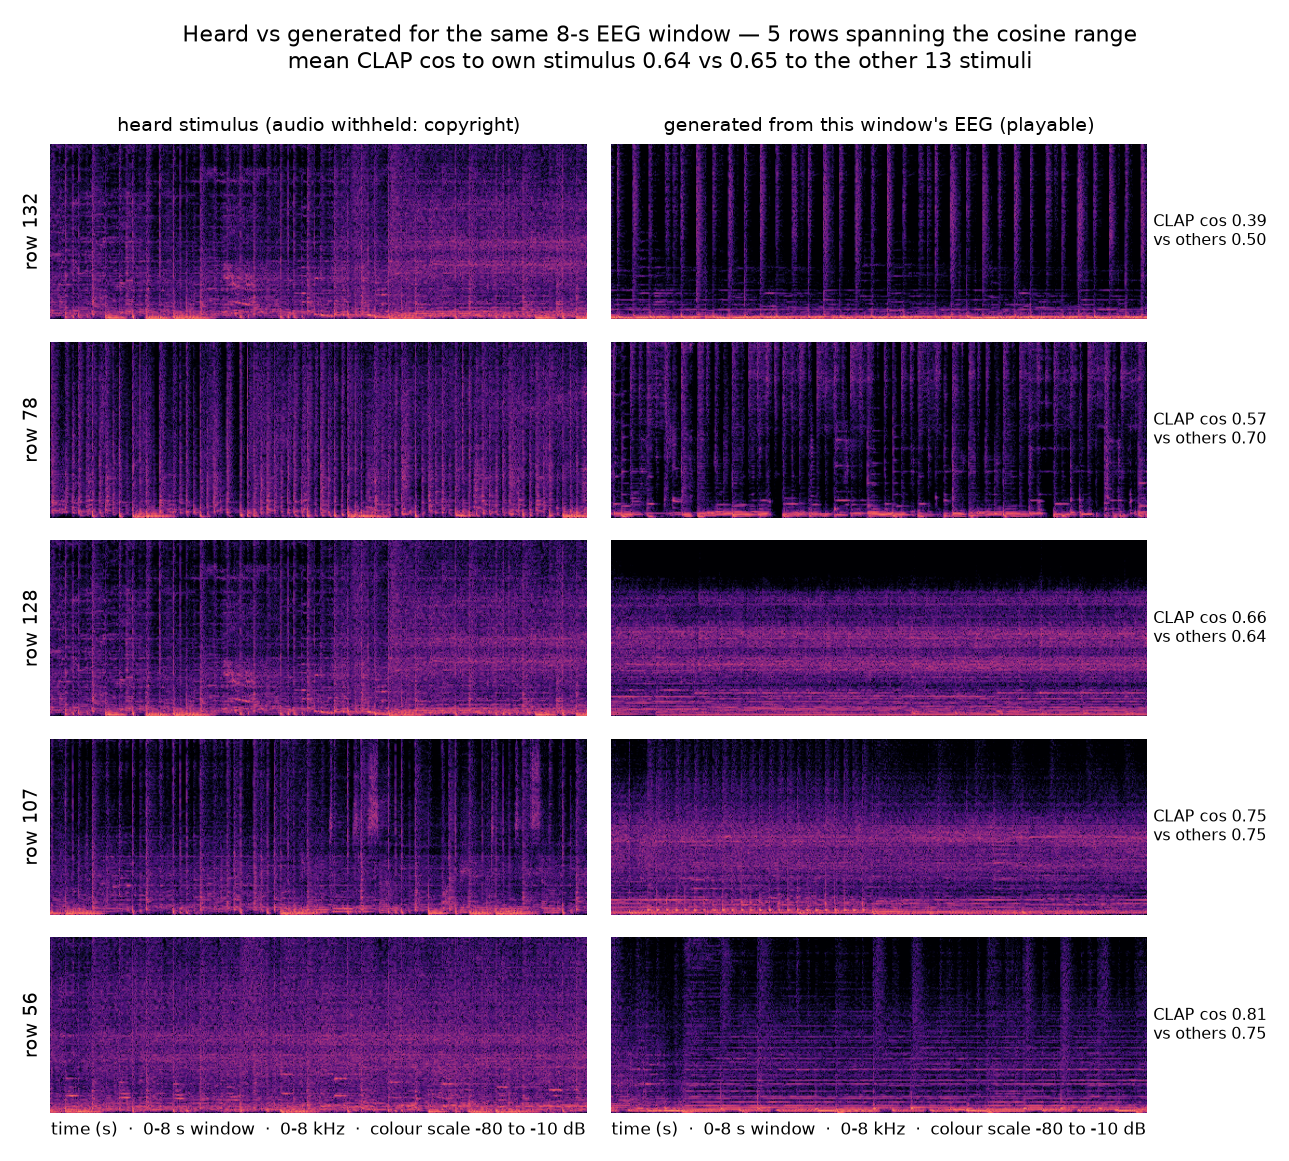
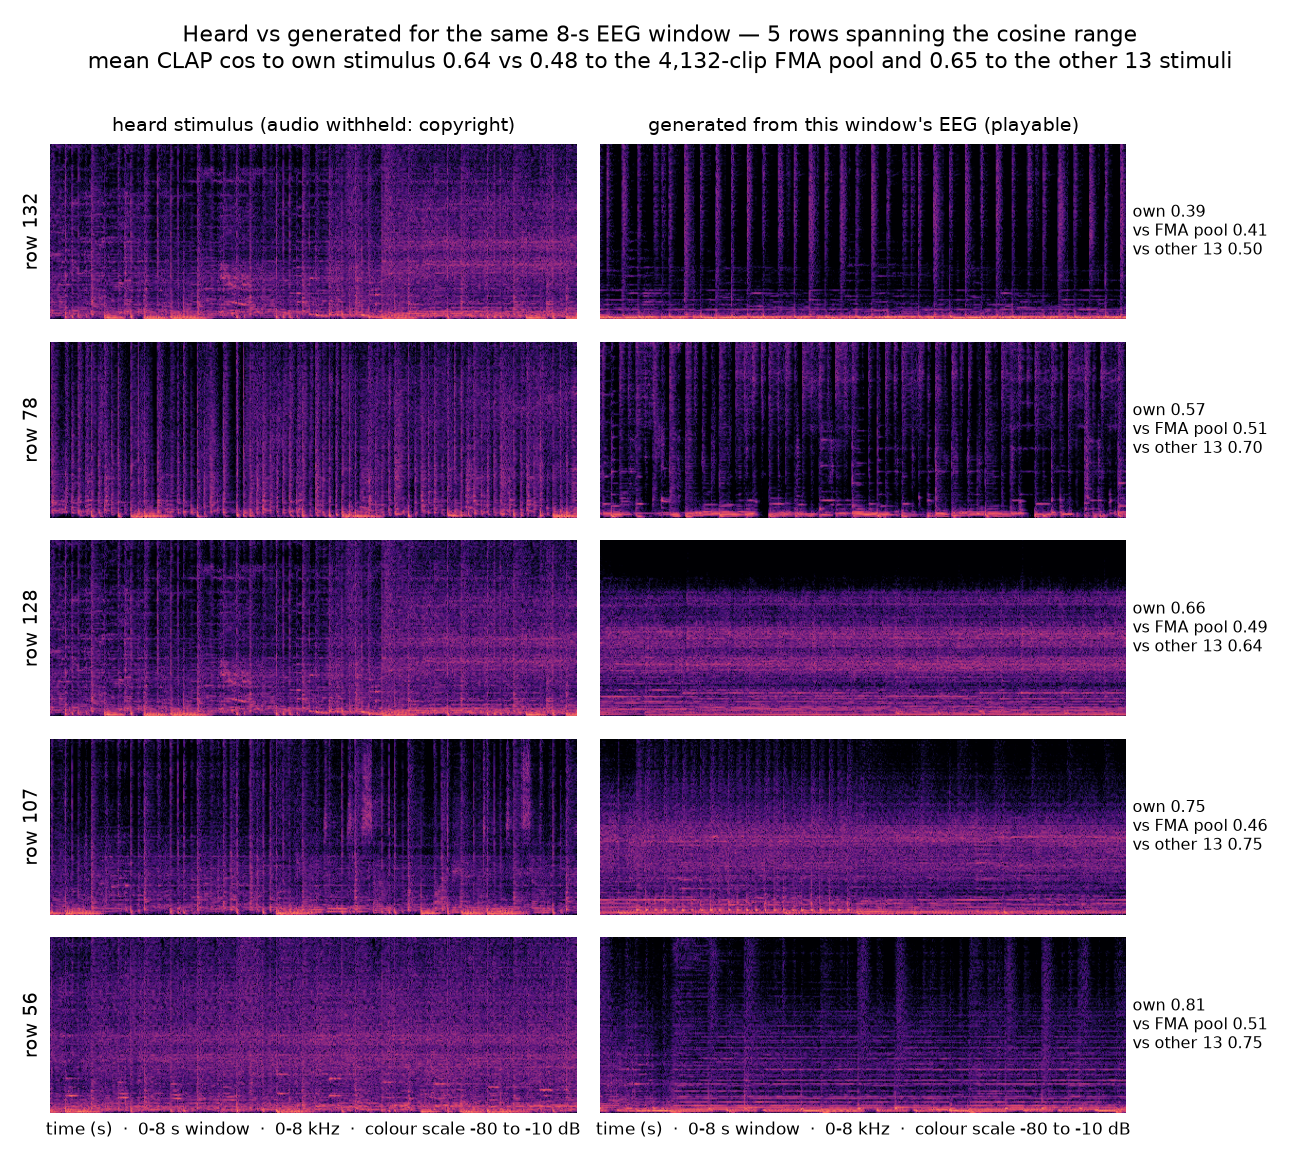
similarity: compare against the whole FMA pool, not the other 13 stimuli
The within-corpus comparator is saturated (two unrelated stimulus windows already
score 0.869 against each other), so own-vs-other-13 could not show anything. Against
the 4,132-clip FMA pool the generated clips sit +0.163 above generic music
(t = 5.4, 13/14), so the output is measurably tied to the corpus rather than generic.
The control that bounds it: a wrong stimulus of the same corpus gains the same
(+0.164), so the pull is corpus-level, not song-level. Also caches the embeddings so
re-analysis needs no CLAP pass.

diff --git a/index.html b/index.html
@@ -67,11 +67,11 @@
   <h2>Heard vs generated</h2>
   <p class="lead">Every held-out delivery we have: the stimulus the subject listened to, next to what the frozen generator produced from that same window's EEG.</p>
   <div class="note warn"><b>Why the left column has no audio.</b> The stimulus clips are excerpts of commercially released songs; we can't redistribute them, so the stimulus is shown as a spectrogram only. Everything playable on this page is generated audio. Spectrograms use one common colour scale (−80…−10 dB), one time axis (0–8 s) and one frequency axis (0–8 kHz), so cells are directly comparable.</div>
-  <div class="note"><b>Read the cosine column honestly.</b> Across the 14 pairs, a generated clip sits at CLAP cosine <b>0.644</b> to <i>its own</i> stimulus and <b>0.645</b> to the 13 <i>other</i> stimuli (margin −0.001, t = −0.1, own wins 7/14 — a coin flip). Two unrelated stimulus windows already score 0.869 against each other in this space, so the metric has almost no song-level resolution here. <b>This system is not a reconstruction of what was heard.</b> Song identity is recovered by Part 1 (retrieval, below); Part 2's job is only to produce music that is pleasant and EEG-selected in style.</div>
+  <div class="note"><b>What the cosine column does and does not show.</b> The comparator is the whole <b>FMA pool (4,132 eight-second clips)</b>, not the other 13 stimuli — inside a 14-song corpus two unrelated windows already score 0.869 against each other, so a within-corpus comparator is saturated and cannot show anything. Against generic music the four levels are: our output → FMA pool <b>0.481</b> (the pool's own internal average is 0.497, i.e. that is what "generic music" sits at); a <i>real</i> stimulus → FMA pool <b>0.532</b>; our output → <b>its own</b> stimulus <b>0.644</b>; our output → a <b>different</b> stimulus of this corpus <b>0.645</b>. So the generated clips are decisively <i>not</i> generic music — they are pulled into this corpus's neighbourhood, margin <b>+0.163</b>, t = 5.4, 13/14 rows. But the wrong songs gain exactly the same amount (control margin <b>+0.164</b>, t = 6.6), which is what bounds the claim: <b>the pull is to the corpus, not to the individual song.</b> Song identity is recovered by Part 1 (retrieval, below); Part 2 selects a style and stays inside the generator's own distribution.</div>
   <figure><img src="assets/fig/fig12_stim_vs_gen.png"><figcaption>Five of the fourteen pairs, chosen by rank rather than by eye: the lowest, 25th, 50th, 75th and highest cosine. Left column is the heard stimulus, right column the clip generated from that window's EEG.</figcaption></figure>
   <table>
-    <colgroup><col style="width:6%"><col style="width:32%"><col style="width:32%"><col style="width:18%"><col style="width:12%"></colgroup>
-    <thead><tr><th>window</th><th>heard stimulus — spectrogram only (audio withheld: copyright)</th><th>generated from this window's EEG — playable</th><th>prompt the EEG selected</th><th>CLAP cos<br>own vs other 13</th></tr></thead>
+    <colgroup><col style="width:6%"><col style="width:32%"><col style="width:31%"><col style="width:16%"><col style="width:15%"></colgroup>
+    <thead><tr><th>window</th><th>heard stimulus — spectrogram only (audio withheld: copyright)</th><th>generated from this window's EEG — playable</th><th>prompt the EEG selected</th><th>CLAP cos: own stimulus vs the FMA pool</th></tr></thead>
     <tbody id="pairs"><tr><td colspan="5" class="mut">loading <code>assets/pairs.json</code>…</td></tr></tbody>
   </table>
   <p class="mut">Rows are every delivered window, not a selection. Numbers come straight from
@@ -110,7 +110,7 @@
   <details><summary>Why is there no stimulus audio anywhere on this page?</summary>
   <p>The stimuli are excerpts of commercially released songs, so we can't redistribute the waveform. Spectrograms of them are shown instead, and every playable file here is generated. Raw EEG is also not published (participant privacy).</p></details>
   <details><summary>Is the generated clip a reconstruction of what the subject heard?</summary>
-  <p>No, and that is the point of splitting the system in two. Measured on CLAP embeddings the generated clip is no closer to its own stimulus than to any other stimulus (0.644 vs 0.645). Song identity is what Part 1's retrieval delivers; Part 2 only chooses a style and stays inside the generator's own distribution so the output is musical.</p></details>
+  <p>No — but it is genuinely tied to what was heard at the level of <i>corpus</i>, not song. Against a 4,132-clip FMA pool the generated clips sit much closer to their own stimulus than to generic music (+0.163, t = 5.4, 13/14 rows), so they are not "any random music". The control that bounds the claim: a <i>different</i> stimulus from the same corpus gains exactly as much (+0.164). So the EEG-selected prompt captures the style of this recording set, not which of the 14 songs was playing. Song identity is what Part 1's retrieval delivers (88.2% top-1 held-out).</p></details>
   <details><summary>Why keep the generator frozen?</summary>
   <p>Fine-tuning was tried and measured worse on a texture-aware metric (MFCC-Fréchet 29,472 vs 3,444), and the corpus is small (14 songs). Freezing means every output is by construction a sample the generator already knows how to make.</p></details>
   <details><summary>Why not interpolate between two prompts?</summary>
@@ -123,7 +123,7 @@
     <li>Small corpus (14 songs, 68 subjects); the genre labels collapse toward the corpus's dominant style, so overall accuracy flatters the classifier and κ is the honest number.</li>
     <li>Because condition interpolation is off-manifold, the "mix over prompts" is in practice near-single-prompt; the mixture is only safely expressible as waveform blending.</li>
     <li>Signal metrics (zcr, spectral flatness) do not judge musicality; MFCC-Fréchet helps, but the final gate is human listening, which has not been run.</li>
-    <li>The CLAP cosine used in the table above has poor song-level resolution on this corpus (unrelated stimuli already score 0.869), so it is reported as own-vs-others, never as an absolute similarity.</li>
+    <li>Song-level similarity cannot be measured on this corpus with laion-CLAP: two unrelated stimulus windows already score 0.869 against each other, so the within-corpus comparator is saturated. The FMA-pool comparator fixes that for the corpus-vs-generic question and leaves the song-level question open — a stronger identity metric would need a representation with finer song resolution.</li>
   </ul>
 
   <footer>
@@ -154,9 +154,9 @@ fetch('assets/pairs.json').then(r=>r.json()).then(d=>{
     <td><a href="assets/fig/spectro/row${r.row}_gen.png" target="_blank" rel="noopener"><img loading="lazy" src="assets/fig/spectro/row${r.row}_gen.png" alt="spectrogram of the generated clip, window ${r.row}"></a>
         <audio controls preload="none" src="assets/audio/pairs/${r.gen_file}"></audio></td>
     <td>${r.prompt_text} <span class="mut">(zcr ${r.zcr.toFixed(3)})</span></td>
-    <td class="cos"><b>${r.cos_own.toFixed(2)}</b> vs ${r.cos_others.toFixed(2)}<br><span class="mut">${r.margin>=0?'+':''}${r.margin.toFixed(2)}</span></td>
+    <td class="cos"><b>${r.cos_own.toFixed(2)}</b> own stimulus<br>vs FMA pool ${r.cos_fma_mean.toFixed(2)} <span class="mut">(+${r.margin_fma.toFixed(2)})</span><br><span class="mut">wrong song ${r.cos_others.toFixed(2)}</span></td>
    </tr>`).join('')
-   + `<tr><td colspan="5" class="mut">mean over ${d.n_pairs} pairs: own ${d.mean_cos_own.toFixed(3)} vs others ${d.mean_cos_others.toFixed(3)} (margin ${d.mean_margin.toFixed(3)}, t = ${d.margin_t.toFixed(1)}); unrelated stimulus pairs score ${d.mean_cos_ref_vs_ref.toFixed(3)}.</td></tr>`;
+   + `<tr><td colspan="5" class="mut">mean over ${d.n_pairs} pairs — own stimulus ${d.mean_cos_own.toFixed(3)} vs the ${d.fma.pool.toLocaleString()}-clip FMA pool ${d.fma.gen_vs_pool_mean.toFixed(3)} (<b>margin +${d.fma.own_minus_pool_mean.toFixed(3)}, t = ${d.fma.t.toFixed(1)}</b>, own wins ${d.fma.rows_own_above_pool}/${d.n_pairs}); control: a <i>wrong</i> stimulus of this corpus gains the same, +${d.fma.control_other13_minus_pool_mean.toFixed(3)} (t = ${d.fma.control_t.toFixed(1)}). Reference points: pool-internal ${d.fma.pool_internal_cos.toFixed(3)}, real stimulus vs pool ${d.fma.stimulus_vs_pool_mean.toFixed(3)}.</td></tr>`;
 }).catch(e=>{
   document.getElementById('pairs').innerHTML =
    `<tr><td colspan="5" class="mut">could not load assets/pairs.json (${e}) — open this page over http, not file://</td></tr>`;

diff --git a/code/figures/make_fig_stim_vs_gen.py b/code/figures/make_fig_stim_vs_gen.py
@@ -6,9 +6,12 @@ Two jobs:
      identical frequency axis and identical colour scale, for the demo page's comparison table.
      Only the STIMULUS tiles are derived from copyrighted audio, and only as images: the stimulus
      waveform is never published.
-  2. results/stim_vs_gen/cos_matrix.json — per-row laion-CLAP cosine between the generated clip and
-     its own stimulus (own) vs the mean cosine to the other 13 stimuli (others). "own vs others" is
-     the comparator; a bare own=0.48 must not be read against 1.0.
+  2. results/stim_vs_gen/cos_matrix.json (+ assets/pairs.json for the demo page) — per-row
+     laion-CLAP cosine of each generated clip against (a) its own stimulus, (b) the other 13
+     stimuli of this corpus, and (c) the 4,132-clip FMA pool. (b) is a saturated comparator --
+     two unrelated stimuli already score ~0.87 against each other -- so (c) is the informative
+     one, and the (b) margin is the control that shows whether any pull is song-level or merely
+     corpus-level. Also caches embeddings in emb.npz so re-analysis needs no CLAP pass.
 
 Needs the mainv2 workspace for the laion-CLAP helper (external to this repo).
 
@@ -79,6 +82,29 @@ def main():
     print(f"floor: mean cos between two different stimuli {ref_ref:.4f}, "
           f"between two different generations {gen_gen:.4f}")
 
+    # generic-music comparator: the whole FMA pool (4,132 8-s clips), not the other 13 stimuli.
+    # The 14 stimuli are mutually ~0.87 similar, so "vs the other 13" is a saturated comparator;
+    # distance to a broad, diverse pool asks a different question: is the output pulled toward
+    # this corpus at all, rather than sitting at the centre of generic music?
+    F = np.load(ROOT / "data" / "fma8s" / "cond.npy").astype(np.float32)
+    F = F / (np.linalg.norm(F, axis=1, keepdims=True) + 1e-8)
+    GF, RF = G @ F.T, R @ F.T
+    gen_fma_mean, gen_fma_max = GF.mean(1), GF.max(1)
+    stim_fma_mean = RF.mean(1)
+    fma_fma = offdiag(F @ F.T)
+    margin_fma = own - gen_fma_mean
+    t_fma = float(margin_fma.mean() / (margin_fma.std(ddof=1) / np.sqrt(n)))
+    # the control that decides what the FMA margin actually means: if the 13 WRONG stimuli gain the
+    # same margin, the pull is corpus-level, not song-level.
+    margin_fma_others = others - gen_fma_mean
+    t_fma_others = float(margin_fma_others.mean() / (margin_fma_others.std(ddof=1) / np.sqrt(n)))
+    print(f"FMA pool {F.shape[0]} clips, pool-internal mean cos {fma_fma:.4f}")
+    print(f"gen -> FMA mean {gen_fma_mean.mean():.4f} (best clip in pool {gen_fma_max.mean():.4f}) | "
+          f"real stimulus -> FMA mean {stim_fma_mean.mean():.4f}")
+    print(f"own vs FMA   : margin {margin_fma.mean():+.4f} t={t_fma:.1f} "
+          f"own>FMA in {(margin_fma > 0).sum()}/{n}")
+    print(f"other-13 vs FMA (control): margin {margin_fma_others.mean():+.4f} t={t_fma_others:.1f}")
+
     TILES.mkdir(parents=True, exist_ok=True)
     for r, wref, sr, wgen, gsr in clips:
         fig, ax = plt.subplots(figsize=(3.7, 1.25))
@@ -95,13 +121,30 @@ def main():
         "mean_margin": float(margin.mean()),
         "margin_t": float(margin.mean() / (margin.std(ddof=1) / np.sqrt(n))),
         "rows_own_above_others": int((margin > 0).sum()),
+        "fma": {
+            "pool": int(F.shape[0]), "pool_internal_cos": fma_fma,
+            "gen_vs_pool_mean": float(gen_fma_mean.mean()),
+            "gen_vs_pool_best_clip": float(gen_fma_max.mean()),
+            "stimulus_vs_pool_mean": float(stim_fma_mean.mean()),
+            "own_minus_pool_mean": float(margin_fma.mean()), "t": t_fma,
+            "rows_own_above_pool": int((margin_fma > 0).sum()),
+            "control_other13_minus_pool_mean": float(margin_fma_others.mean()),
+            "control_t": t_fma_others,
+            "caveat": "own-vs-pool measures pull toward THIS corpus, not song identity: the 14 "
+                      "stimuli are Bollywood/film music and the FMA pool is mostly Western genres, "
+                      "so any clip that merely sounds like the corpus beats the pool baseline.",
+        },
         "rows": [{"row": int(r["row"]), "prompt": int(r["prompt"]), "prompt_text": r["prompt_text"],
                   "gen_file": Path(r["gen_wav"]).name,
                   "cos_own": float(own[i]), "cos_others": float(others[i]),
-                  "margin": float(margin[i]), "zcr": float(r["zcr"])}
+                  "margin": float(margin[i]),
+                  "cos_fma_mean": float(gen_fma_mean[i]), "cos_fma_best": float(gen_fma_max[i]),
+                  "margin_fma": float(margin_fma[i]), "stim_fma_mean": float(stim_fma_mean[i]),
+                  "zcr": float(r["zcr"])}
                  for i, (r, *_ ) in enumerate(clips)],
     }
     OUT.mkdir(parents=True, exist_ok=True)
+    np.savez_compressed(OUT / "emb.npz", stim=R, gen=G)   # re-analysis needs no CLAP pass
     json.dump(payload, open(OUT / "cos_matrix.json", "w", encoding="utf-8"), indent=2)
     # the demo page reads the measured numbers straight from this file rather than a hand-typed copy
     web = ROOT / "assets" / "pairs.json"
@@ -125,7 +168,8 @@ def main():
             if col == 0:
                 ax.set_ylabel(f"row {row_no}", fontsize=9)
             else:
-                ax.text(1.01, 0.5, f"CLAP cos {own[j]:.2f}\nvs others {others[j]:.2f}",
+                ax.text(1.01, 0.5, f"own {own[j]:.2f}\nvs FMA pool {gen_fma_mean[j]:.2f}\n"
+                                    f"vs other 13 {others[j]:.2f}",
                         transform=ax.transAxes, ha="left", va="center", fontsize=7.5)
     for ax in axes[-1]:
         ax.set_xlabel("time (s)  ·  0-8 s window  ·  0-8 kHz  ·  colour scale "
@@ -133,6 +177,7 @@ def main():
     fig.tight_layout(rect=[0, 0, 0.97, 0.92])
     fig.suptitle(f"Heard vs generated for the same 8-s EEG window — 5 rows spanning the "
                  f"cosine range\nmean CLAP cos to own stimulus {own.mean():.2f} vs "
+                 f"{gen_fma_mean.mean():.2f} to the {F.shape[0]:,}-clip FMA pool and "
                  f"{others.mean():.2f} to the other {n-1} stimuli", fontsize=TITLE_FS)
     save(fig, "fig12_stim_vs_gen.png")
 

diff --git a/docs/outline_promptmix_eeg.md b/docs/outline_promptmix_eeg.md
@@ -354,7 +354,9 @@ MOS (human listening) is the one column we cannot fill autonomously — it is th
 
 - ✅ **Fig. 12** `fig12_stim_vs_gen.png` (+ 28 tiles in `assets/fig/spectro/`): the heard stimulus window next to the clip generated from that same window's EEG, for all 14 delivered pairs. Produced by `make_fig_stim_vs_gen.py`, which also writes `results/stim_vs_gen/cos_matrix.json` and the copy the demo page reads (`assets/pairs.json`).
 
-**Correction to an earlier number (withdrawn).** The per-row `cos_to_true` in `results/library_b/listen/report.json` (mean 0.477), and the equivalents in the mode-A/mode-B delivery reports, were computed with the stimulus handed to laion-CLAP as if it were 48 kHz while it is 32 kHz — the helper only resamples when the declared rate differs, so the stimulus was scored 1.5× fast. The three call sites now pass 32000, and the replacement measurement is `cos_matrix.json`: own 0.644 vs others 0.645, margin −0.001 (t = −0.1), own wins 7/14. Unrelated stimulus pairs already score 0.869 in this space, so **the generation arm shows no song-level match to its stimulus, and a CLAP cosine must never be quoted as an absolute similarity here.** `true_emb_all.npy` was checked and is the cache-derived (correct-rate) version — it matches a freshly embedded correct-rate stimulus at 0.88–0.95 versus 0.77–0.83 for the buggy one — so figs 3, 4, 5 and the head-to-head comparison stand.
+**Correction to an earlier number (withdrawn).** The per-row `cos_to_true` in `results/library_b/listen/report.json` (mean 0.477), and the equivalents in the mode-A/mode-B delivery reports, were computed with the stimulus handed to laion-CLAP as if it were 48 kHz while it is 32 kHz — the helper only resamples when the declared rate differs, so the stimulus was scored 1.5× fast. The three call sites now pass 32000, and the replacement measurement is `cos_matrix.json`.
+
+**Similarity to the stimulus: corpus-level yes, song-level no.** The comparator matters. Inside the 14-song corpus the test is saturated — two unrelated stimulus windows already score **0.869** against each other — so "own vs the other 13" can show nothing (0.6442 vs 0.6452, margin −0.001, t = −0.1, own wins 7/14). Against a broad external pool the signal appears: mean cosine from each generated clip to the **4,132-clip FMA pool is 0.481** (the pool's own internal average is 0.497, i.e. that is where "generic music" sits; a *real* stimulus of this corpus scores 0.532 against the pool), while the same clip scores **0.644 to its own stimulus — margin +0.163, t = 5.4, 13/14 rows**. The control that bounds the claim: a *different* stimulus from the same corpus gains just as much (**+0.164**, t = 6.6). So the delivered audio is measurably tied to the corpus the subject was listening to and is not generic music, but it carries no song-level identity; identity is recovered only by Part 1 (88.2% top-1 held-out). A stronger song-level metric would need a representation with finer resolution than laion-CLAP on this corpus. `true_emb_all.npy` was checked and is the cache-derived (correct-rate) version — it matches a freshly embedded correct-rate stimulus at 0.88–0.95 versus 0.77–0.83 for the buggy one — so figs 3, 4, 5 and the head-to-head comparison stand.
 
 Every figure is saved with `bbox_inches="tight"` (`code/figures/figstyle.py`) so no title or axis label can be cut off at the canvas edge, and the architecture diagram auto-shrinks each label until it fits inside its box. `make_fig_genre_confusion.py` additionally asserts that the confusion matrix it plots reproduces the overall accuracy in `genre_ci.json`, so a figure cannot silently disagree with the reported number.
 
